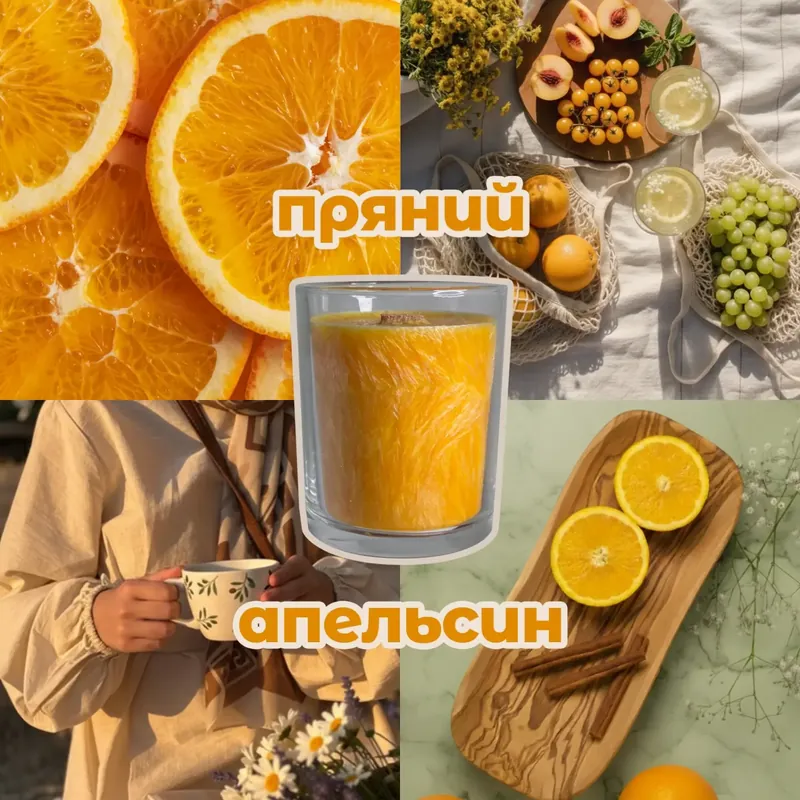
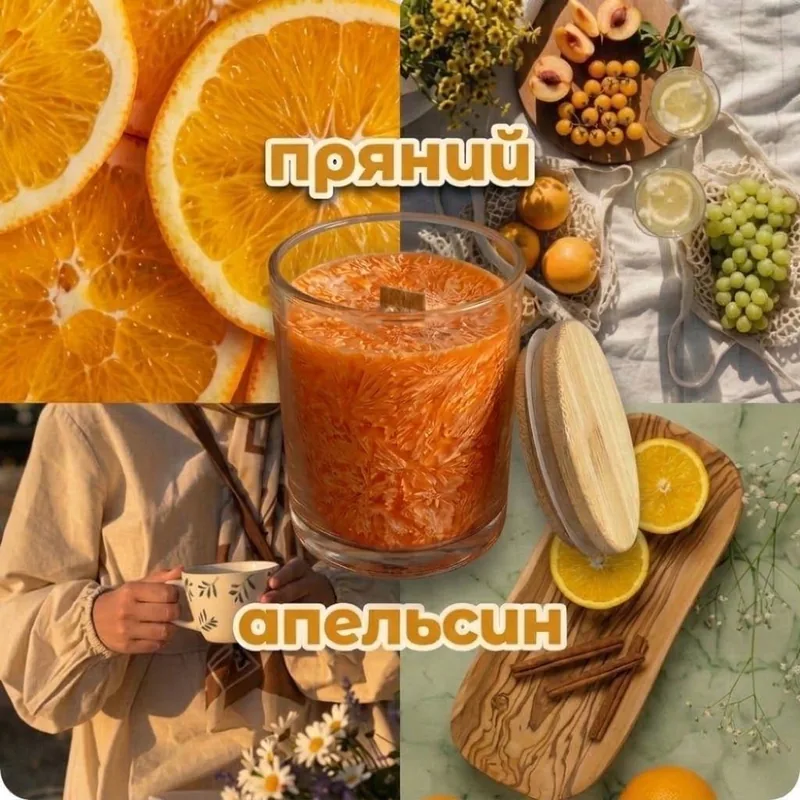
Нові картки осінньої колекції; версія у шляху до фото ароматів
- замінені фото: Теплий круасан, Гарбузовий чай, Осінній крем, Пряний апельсин (800×800 webp)
- IMG_VERSION у config.js: фото ароматів завантажуються з ?v=, тож браузери не показують старі з 30-денного кешу

Claude-Session: https://claude.ai/code/session_01979A4LHwQF6FmhxUrirhUY

diff --git a/zigriy-candles/index.html b/zigriy-candles/index.html
@@ -133,12 +133,12 @@
   <div class="wrap">
     <h2>Оберіть аромати</h2>
     <p class="sub">Натисніть «Додати» біля кожного аромату, який хочете, і кошик сам порахує ціну набору</p>
-    <div id="groups" data-h="1xrz5vv">
+    <div id="groups" data-h="zp6dor">
   <div class="group-title">Осіння колекція <small>Новинка</small></div>
   <div class="grid">
     <div class="scent" data-id="teplyi-kruasan">
       <div class="img">
-        <img src="/assets/img/scents/teplyi-kruasan.webp" alt="Свічка Zigriy «Теплий круасан»" loading="lazy" width="800" height="800" data-c1="#7a4c1c" data-c2="#f0c77a">
+        <img src="/assets/img/scents/teplyi-kruasan.webp?v=2" alt="Свічка Zigriy «Теплий круасан»" loading="lazy" width="800" height="800" data-c1="#7a4c1c" data-c2="#f0c77a">
         
         <a class="info-btn" href="/aromat/teplyi-kruasan" data-pv="teplyi-kruasan" aria-label="Детальніше про аромат «Теплий круасан»"><span>Детальніше</span></a>
         <span class="cnt"></span>
@@ -153,8 +153,8 @@
     </div>
     <div class="scent" data-id="harbuzovyi-chai">
       <div class="img">
-        <img src="/assets/img/scents/harbuzovyi-chai.webp" alt="Свічка Zigriy «Гарбузовий чай»" loading="lazy" width="800" height="800" data-c1="#7a3a14" data-c2="#e2873a">
-        <img class="alt" src="/assets/img/scents/harbuzovyi-chai-photo.webp" alt="" loading="lazy" width="800" height="800" data-opt>
+        <img src="/assets/img/scents/harbuzovyi-chai.webp?v=2" alt="Свічка Zigriy «Гарбузовий чай»" loading="lazy" width="800" height="800" data-c1="#7a3a14" data-c2="#e2873a">
+        <img class="alt" src="/assets/img/scents/harbuzovyi-chai-photo.webp?v=2" alt="" loading="lazy" width="800" height="800" data-opt>
         <a class="info-btn" href="/aromat/harbuzovyi-chai" data-pv="harbuzovyi-chai" aria-label="Детальніше про аромат «Гарбузовий чай»"><span>Детальніше</span></a>
         <span class="cnt"></span>
       </div>
@@ -168,7 +168,7 @@
     </div>
     <div class="scent" data-id="osinnii-krem">
       <div class="img">
-        <img src="/assets/img/scents/osinnii-krem.webp" alt="Свічка Zigriy «Осінній крем»" loading="lazy" width="800" height="800" data-c1="#6b5a1c" data-c2="#e8d36a">
+        <img src="/assets/img/scents/osinnii-krem.webp?v=2" alt="Свічка Zigriy «Осінній крем»" loading="lazy" width="800" height="800" data-c1="#6b5a1c" data-c2="#e8d36a">
         
         <a class="info-btn" href="/aromat/osinnii-krem" data-pv="osinnii-krem" aria-label="Детальніше про аромат «Осінній крем»"><span>Детальніше</span></a>
         <span class="cnt"></span>
@@ -183,8 +183,8 @@
     </div>
     <div class="scent" data-id="pryanyi-apelsyn">
       <div class="img">
-        <img src="/assets/img/scents/pryanyi-apelsyn.webp" alt="Свічка Zigriy «Пряний апельсин»" loading="lazy" width="800" height="800" data-c1="#8a3a10" data-c2="#f09a3a">
-        <img class="alt" src="/assets/img/scents/pryanyi-apelsyn-photo.webp" alt="" loading="lazy" width="800" height="800" data-opt>
+        <img src="/assets/img/scents/pryanyi-apelsyn.webp?v=2" alt="Свічка Zigriy «Пряний апельсин»" loading="lazy" width="800" height="800" data-c1="#8a3a10" data-c2="#f09a3a">
+        <img class="alt" src="/assets/img/scents/pryanyi-apelsyn-photo.webp?v=2" alt="" loading="lazy" width="800" height="800" data-opt>
         <a class="info-btn" href="/aromat/pryanyi-apelsyn" data-pv="pryanyi-apelsyn" aria-label="Детальніше про аромат «Пряний апельсин»"><span>Детальніше</span></a>
         <span class="cnt"></span>
       </div>
@@ -200,7 +200,7 @@
   <div class="grid">
     <div class="scent" data-id="shokolad">
       <div class="img">
-        <img src="/assets/img/scents/shokolad.webp" alt="Свічка Zigriy «Шоколад»" loading="lazy" width="800" height="800" data-c1="#3e261a" data-c2="#9a6a4a">
+        <img src="/assets/img/scents/shokolad.webp?v=2" alt="Свічка Zigriy «Шоколад»" loading="lazy" width="800" height="800" data-c1="#3e261a" data-c2="#9a6a4a">
         
         <a class="info-btn" href="/aromat/shokolad" data-pv="shokolad" aria-label="Детальніше про аромат «Шоколад»"><span>Детальніше</span></a>
         <span class="cnt"></span>
@@ -215,7 +215,7 @@
     </div>
     <div class="scent" data-id="vanil">
       <div class="img">
-        <img src="/assets/img/scents/vanil.webp" alt="Свічка Zigriy «Ваніль»" loading="lazy" width="800" height="800" data-c1="#7a6a2a" data-c2="#f2e3a0">
+        <img src="/assets/img/scents/vanil.webp?v=2" alt="Свічка Zigriy «Ваніль»" loading="lazy" width="800" height="800" data-c1="#7a6a2a" data-c2="#f2e3a0">
         
         <a class="info-btn" href="/aromat/vanil" data-pv="vanil" aria-label="Детальніше про аромат «Ваніль»"><span>Детальніше</span></a>
         <span class="cnt"></span>
@@ -230,7 +230,7 @@
     </div>
     <div class="scent" data-id="harbuzovyi-pyrih">
       <div class="img">
-        <img src="/assets/img/scents/harbuzovyi-pyrih.webp" alt="Свічка Zigriy «Гарбузовий пиріг»" loading="lazy" width="800" height="800" data-c1="#7a3a14" data-c2="#e2a07a">
+        <img src="/assets/img/scents/harbuzovyi-pyrih.webp?v=2" alt="Свічка Zigriy «Гарбузовий пиріг»" loading="lazy" width="800" height="800" data-c1="#7a3a14" data-c2="#e2a07a">
         
         <a class="info-btn" href="/aromat/harbuzovyi-pyrih" data-pv="harbuzovyi-pyrih" aria-label="Детальніше про аромат «Гарбузовий пиріг»"><span>Детальніше</span></a>
         <span class="cnt"></span>
@@ -245,7 +245,7 @@
     </div>
     <div class="scent" data-id="dynia">
       <div class="img">
-        <img src="/assets/img/scents/dynia.webp" alt="Свічка Zigriy «Диня»" loading="lazy" width="800" height="800" data-c1="#7a6a14" data-c2="#f0e06a">
+        <img src="/assets/img/scents/dynia.webp?v=2" alt="Свічка Zigriy «Диня»" loading="lazy" width="800" height="800" data-c1="#7a6a14" data-c2="#f0e06a">
         
         <a class="info-btn" href="/aromat/dynia" data-pv="dynia" aria-label="Детальніше про аромат «Диня»"><span>Детальніше</span></a>
         <span class="cnt"></span>

diff --git a/zigriy-candles/assets/js/config.js b/zigriy-candles/assets/js/config.js
@@ -9,6 +9,8 @@ export const CONFIG = {
   META_PIXEL_ID: '',     // ← ID Meta Pixel (порожньо = вимкнено)
   TIKTOK_PIXEL_ID: '',   // ← ID TikTok Pixel (порожньо = вимкнено)
 
+  IMG_VERSION: 2,         // збільшуйте, коли замінюєте фото ароматів, щоб браузери не показували старі з кешу
+
   VOLUME: '200 мл',
   BURN: '40+ годин',     // скільки горить одна свічка
   SINGLE_PRICE: 450,     // ціна однієї свічки (з Instagram)

diff --git a/zigriy-candles/assets/js/render.js b/zigriy-candles/assets/js/render.js
@@ -10,7 +10,7 @@ export const plural = (n, one, few, many) => {
   return many;
 };
 export const candles = n => plural(n, 'свічка', 'свічки', 'свічок');
-export const IMG = id => `/assets/img/scents/${id}.webp`;
+export const IMG = id => `/assets/img/scents/${id}.webp?v=${C.IMG_VERSION}`;
 export const hash = s => { let h = 5381; for (let i = 0; i < s.length; i++) h = ((h * 33) ^ s.charCodeAt(i)) >>> 0; return h.toString(36); };
 
 export function derive() {

diff --git a/zigriy-candles/build_standalone.py b/zigriy-candles/build_standalone.py
@@ -51,7 +51,7 @@ app = sub_once("import { CONFIG as C, GROUPS, SCENTS, calc } from './config.js';
 app = sub_once("import { fmt, plural, candles, hash, IMG, derive, setsHTML, groupsHTML } from './render.js';\n", '', app, 'import render у app.js')
 scents = {p.stem: data_uri(f'/assets/img/scents/{p.name}') for p in sorted((ROOT / 'assets/img/scents').glob('*.webp'))}
 img_map = ',\n'.join(f'  {k!r}: {v!r}' for k, v in scents.items())
-render = sub_once('const IMG = id => `/assets/img/scents/${id}.webp`;',
+render = sub_once('const IMG = id => `/assets/img/scents/${id}.webp?v=${C.IMG_VERSION}`;',
                f'const __IMG = {{\n{img_map}\n}};\nconst IMG = id => __IMG[id] || "";', render, 'IMG у render.js')
 js = inline_assets(config + '\n' + render + '\n' + app).replace('</script', '<\\/script')
 
